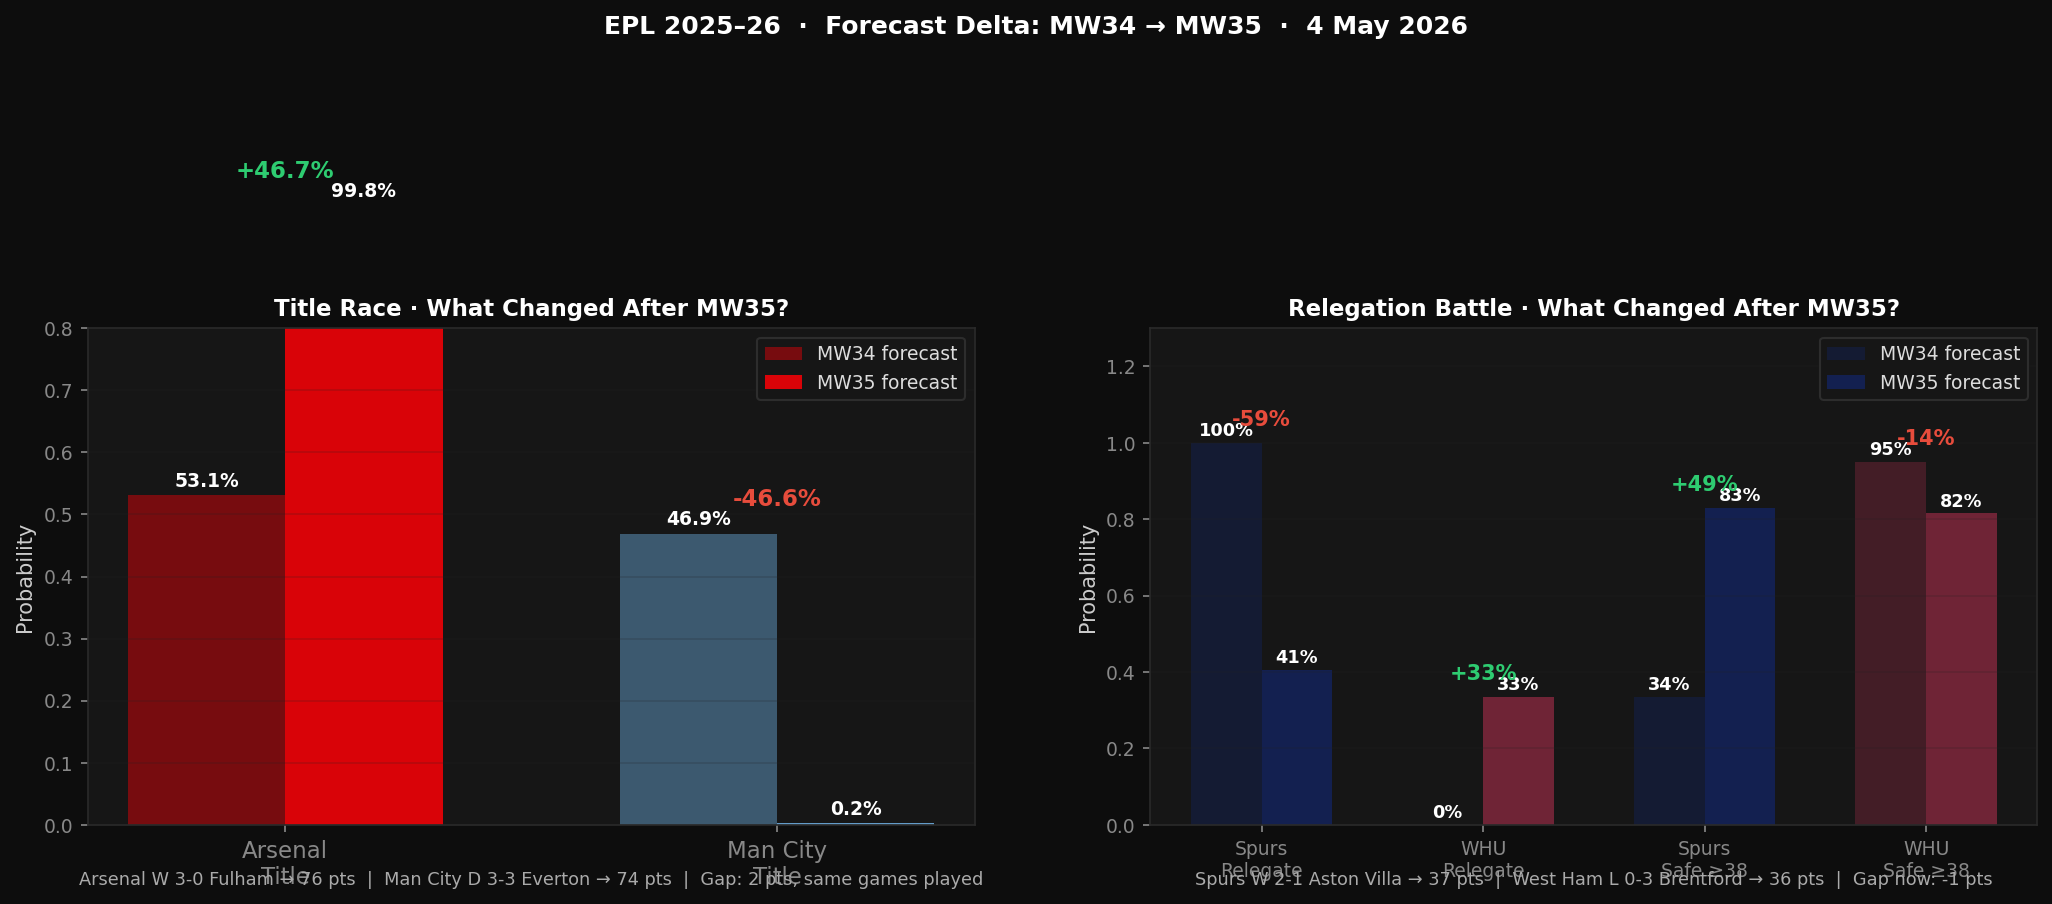
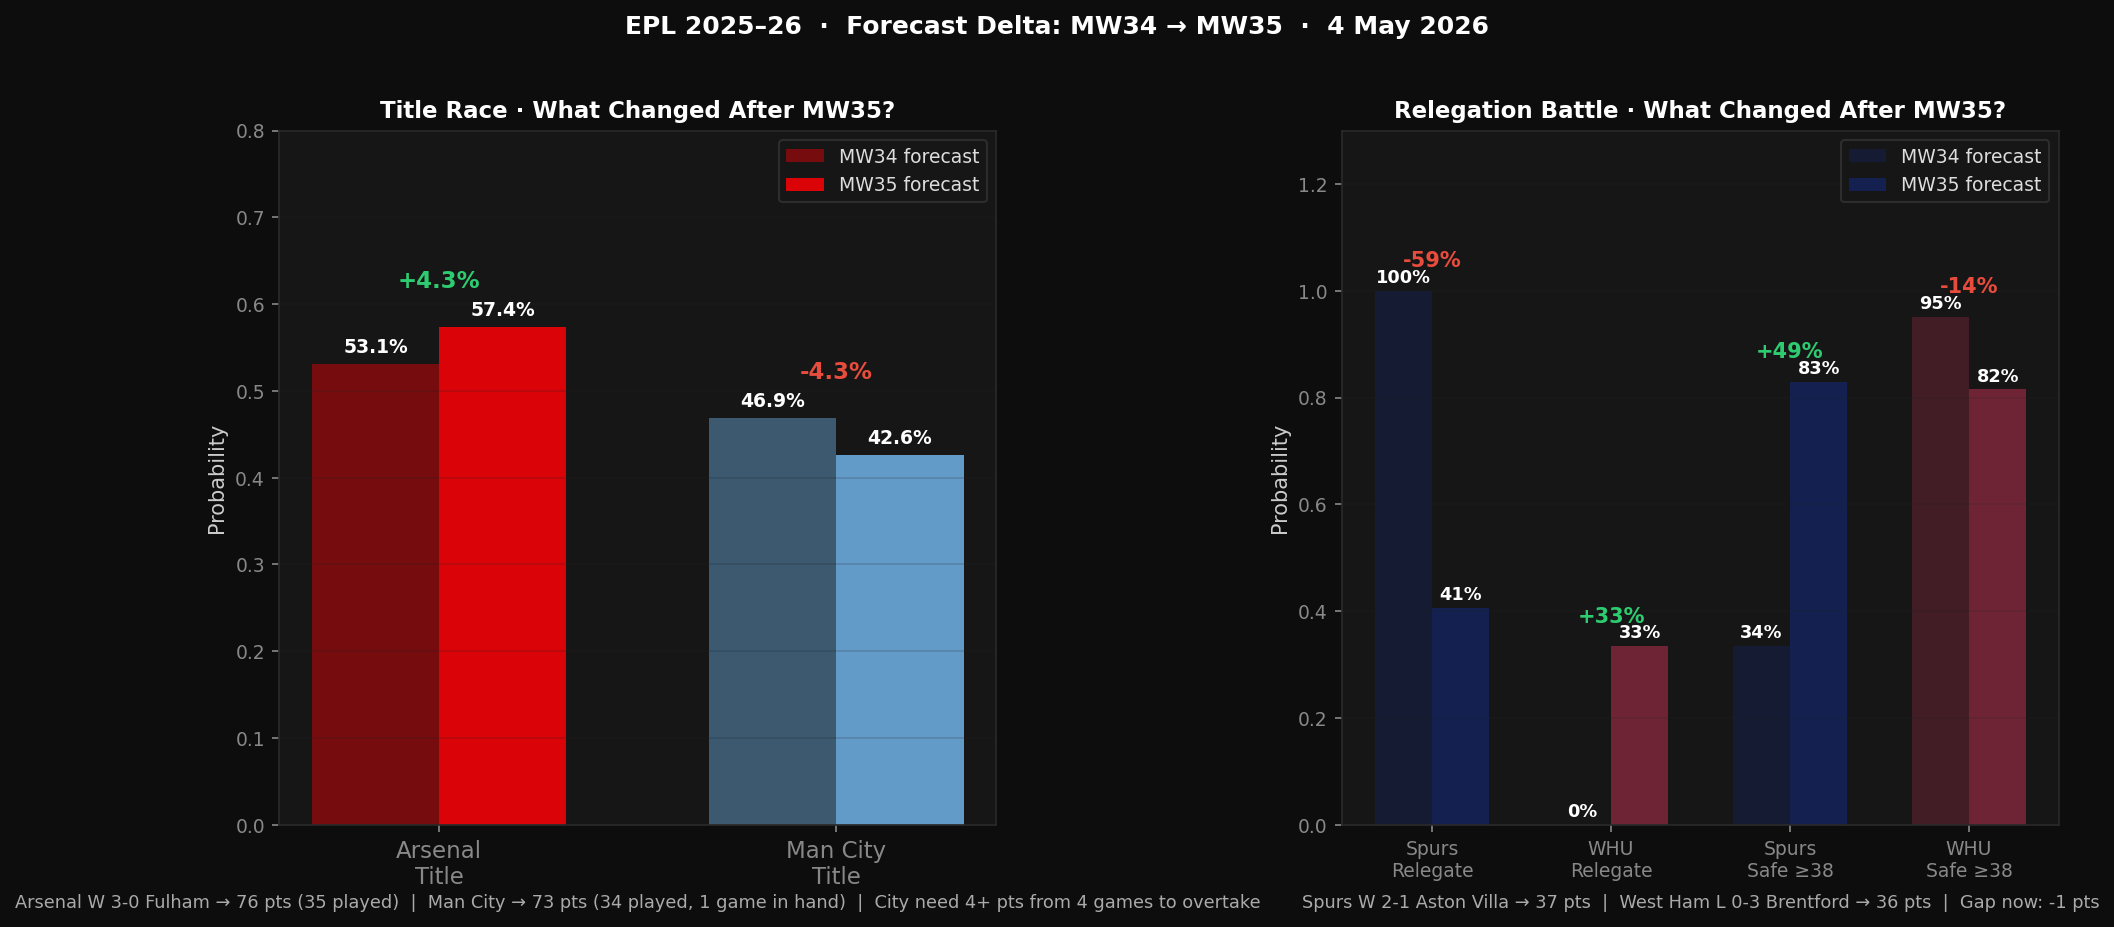
fix: correct Man City to 34 played / 4 remaining — title race 57.4% Arsenal vs 42.6% City

diff --git a/src/run_mw35_forecast.py b/src/run_mw35_forecast.py
@@ -59,12 +59,13 @@ spu_df = pd.read_csv(os.path.join(DATA_DIR, 'tottenham_real_2025_26.csv'))
 whu_df = pd.read_csv(os.path.join(DATA_DIR, 'westham_real_2025_26.csv'))
 che_df = pd.read_csv(os.path.join(DATA_DIR, 'chelsea_real_2025_26.csv'))
 
-# Man City MW1-35: MW34 was a W, MW35 was D 3-3 vs Everton
+# Man City: 34 games played (1 game in hand vs Arsenal's 35).
+# MW35 Everton 3-3 City is NOT counted here — City have 4 games remaining.
 mci_raw = [
     'W','L','L','W','D','W','W','W','L','W',
     'W','L','W','W','W','W','W','W','D','D',
     'D','L','W','D','W','W','W','W','D','D',
-    'W','W','W','W','D'   # MW34=W, MW35=D (3-3 Everton)
+    'W','W','W','W'   # 34 results: MW1-34
 ]
 
 ars_s = [r2p(r) for r in ars_df['result']]
@@ -73,8 +74,8 @@ whu_s = [r2p(r) for r in whu_df['result']]
 che_s = [r2p(r) for r in che_df['result']]
 mci_s = [r2p(r) for r in mci_raw]
 
-ars_pts = sum(ars_s); ars_mw = len(ars_s)   # 76 pts, 35 played
-mci_pts = sum(mci_s); mci_mw = len(mci_s)   # 71 pts, 35 played
+ars_pts = sum(ars_s); ars_mw = len(ars_s)   # 76 pts, 35 played, 3 remaining
+mci_pts = sum(mci_s); mci_mw = len(mci_s)   # 73 pts, 34 played, 4 remaining
 spu_pts = sum(spu_s); spu_mw = len(spu_s)   # 37 pts, 35 played
 whu_pts = sum(whu_s); whu_mw = len(whu_s)   # 36 pts, 35 played
 che_pts = sum(che_s); che_mw = len(che_s)   # 49 pts, 35 played
@@ -115,7 +116,7 @@ print(f"  P(WHU safe ≥38):    {p_whu_safe:.1%}")
 
 # MW34 baseline for delta
 MW34 = {
-    'p_ars': 0.531, 'p_mci': 0.469,
+    'p_ars': 0.531, 'p_mci': 0.469,  # MW34 baseline (City had 1 game in hand)
     'p_spu_rel': 1.000, 'p_whu_rel': 0.000,
     'p_spu_safe': 0.335, 'p_whu_safe': 0.951,
 }
@@ -242,7 +243,8 @@ ax_ctx.set_ylabel('Win % (12-match context)', fontsize=9); ax_ctx.set_ylim(0, 0.
 ax_ctx.set_title('TimesFM Context Window\nWin % from Last 12 Matches', fontsize=10, fontweight='bold', color='white')
 ax_ctx.grid(True, axis='y', alpha=0.2)
 
-fig.suptitle(f'EPL 2025–26  ·  TimesFM-Informed Live Snapshot  ·  Data: MW35 (4 May 2026)',
+fig.suptitle(f'EPL 2025–26  ·  TimesFM-Informed Live Snapshot  ·  Data: MW35 (4 May 2026) · City 1 game in hand',
+
              fontsize=13, fontweight='bold', color='white', y=0.97)
 plt.savefig(os.path.join(OUTPUTS_DIR, 'live_snapshot.png'), dpi=150, bbox_inches='tight', facecolor=BG)
 plt.close()
@@ -275,7 +277,7 @@ ax_t.set_title('Title Race · What Changed After MW35?', fontsize=11, fontweight
 ax_t.legend(fontsize=9); ax_t.grid(True, axis='y', alpha=0.2)
 # Context note
 ax_t.text(0.5, -0.12,
-    f"Arsenal W 3-0 Fulham → {ars_pts} pts  |  Man City D 3-3 Everton → {mci_pts} pts  |  Gap: {ars_pts-mci_pts} pts, same games played",
+    f"Arsenal W 3-0 Fulham → {ars_pts} pts (35 played)  |  Man City → {mci_pts} pts (34 played, 1 game in hand)  |  City need {ars_pts - mci_pts + 1}+ pts from 4 games to overtake",
     transform=ax_t.transAxes, ha='center', fontsize=8.5, color='#AAAAAA')
 
 # Relegation delta
